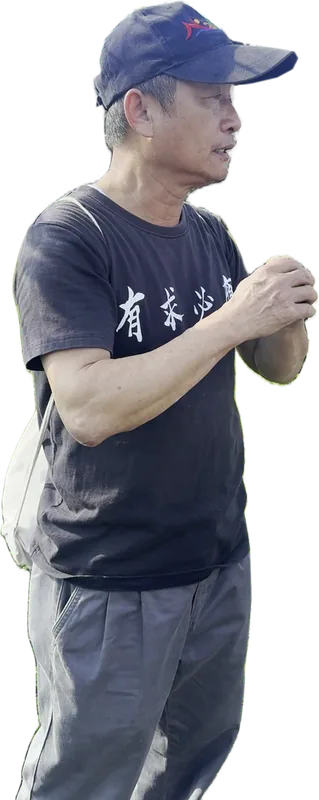
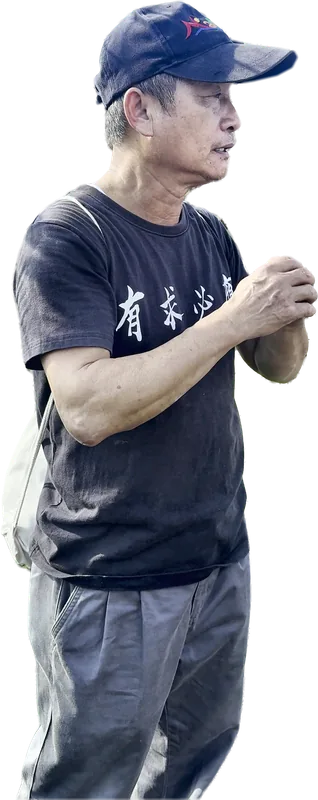
志永哥六張圖精修（重新去背、消白邊、逆光去霧、擦掉殘影）；第 6 站開場改為可轉動的庭園環景

diff --git a/js/data.js b/js/data.js
@@ -72,8 +72,8 @@ window.TOUR = {
       title: "「後堂供奉」紅牌與「國王宮」木牌", own: true, edit: "IMG_6331 縮放", fit: "width" },
     "assets/photos/main-hall-altar.webp": {
       title: "正殿神龕", own: true, edit: "IMG_6340 縮放" },
-    "assets/photos/houyuan.webp": {
-      title: "關聖帝君背面的庭園（全景）", own: true, edit: "IMG_6348 手機全景，縮放" },
+    "assets/photos/houyuan-pano.webp": {
+      title: "泰興宮最裡面的庭園（半圈環景）", own: true, edit: "IMG_6348 手機全景，縮放" },
     "assets/photos/longshen.webp": {
       title: "龍神與大榕樹", own: true, edit: "IMG_6344 縮放" },
   },
@@ -634,6 +634,9 @@ window.TOUR = {
       ready: true,
       intro: "泰興宮最裡面的大榕樹下，供奉著守護大茅埔的龍神。客家人把山叫作「龍」，龍神其實就是山神。",
       image: "assets/photos/longshen.webp",
+      // 半圈環景：團隊手機全景（IMG_6348，弼教堂關聖帝君背面的庭園），水平約 187°
+      pano: "assets/photos/houyuan-pano.webp",
+      panoView: { haov: 187, vaov: 80 },
       stamp: "龍神",
 
       // 內容來源：中央社〈從龍神信仰變成最美慶典 大茅埔調查團找回客家根〉、臺中觀光旅遊網〈東勢大茅埔 尋龍探圳〉、
@@ -653,8 +656,8 @@ window.TOUR = {
       ],
 
       script: [
-        { image: "assets/photos/houyuan.webp", focus: 50, pose: "wave",
-          say: "穿過弼教堂，來到關聖帝君的背面，這裡是一座小庭園。" },
+        { scene: "pano", focus: { yaw: 0, pitch: 0 }, pose: "wave",
+          say: "穿過弼教堂，來到泰興宮的最裡面。用手指左右拖曳，或按「轉動手機看」，看看四周。" },
         { image: "assets/photos/longshen.webp", focus: 48,
           say: "再往泰興宮的最裡面走，就是這棵大榕樹。" },
         { say: "樹下這座小亭子，供奉的是大茅埔的「龍神」。" },

diff --git a/sw.js b/sw.js
@@ -1,6 +1,6 @@
 // TempleGo 離線快取
 // ⚠ 新增或改名圖片時：把路徑加進 PRECACHE，並把 VERSION 加 1，遊客手機才會更新快取
-const VERSION = "v25";
+const VERSION = "v27";
 const CACHE = `templego-${VERSION}`;
 const FONT_CACHE = "templego-fonts";
 
@@ -37,7 +37,6 @@ const PRECACHE = [
   "assets/photos/main-hall-front.webp",
   "assets/photos/board-wide.webp",
   "assets/photos/main-hall-altar.webp",
-  "assets/photos/houyuan.webp",
   "assets/img/sanshan-scroll.svg",
   "assets/img/kaojiang-scroll.svg",
   "assets/img/plaza-scroll.svg",
@@ -45,6 +44,7 @@ const PRECACHE = [
   "assets/photos/main-hall-pano.webp",
   "assets/photos/courtyard-pano.webp",
   "assets/photos/plaza-pano.webp",
+  "assets/photos/houyuan-pano.webp",
   "assets/icons/icon-192.png",
   "assets/icons/favicon.png",
   "https://cdnjs.cloudflare.com/ajax/libs/pannellum/2.5.6/pannellum.css",
